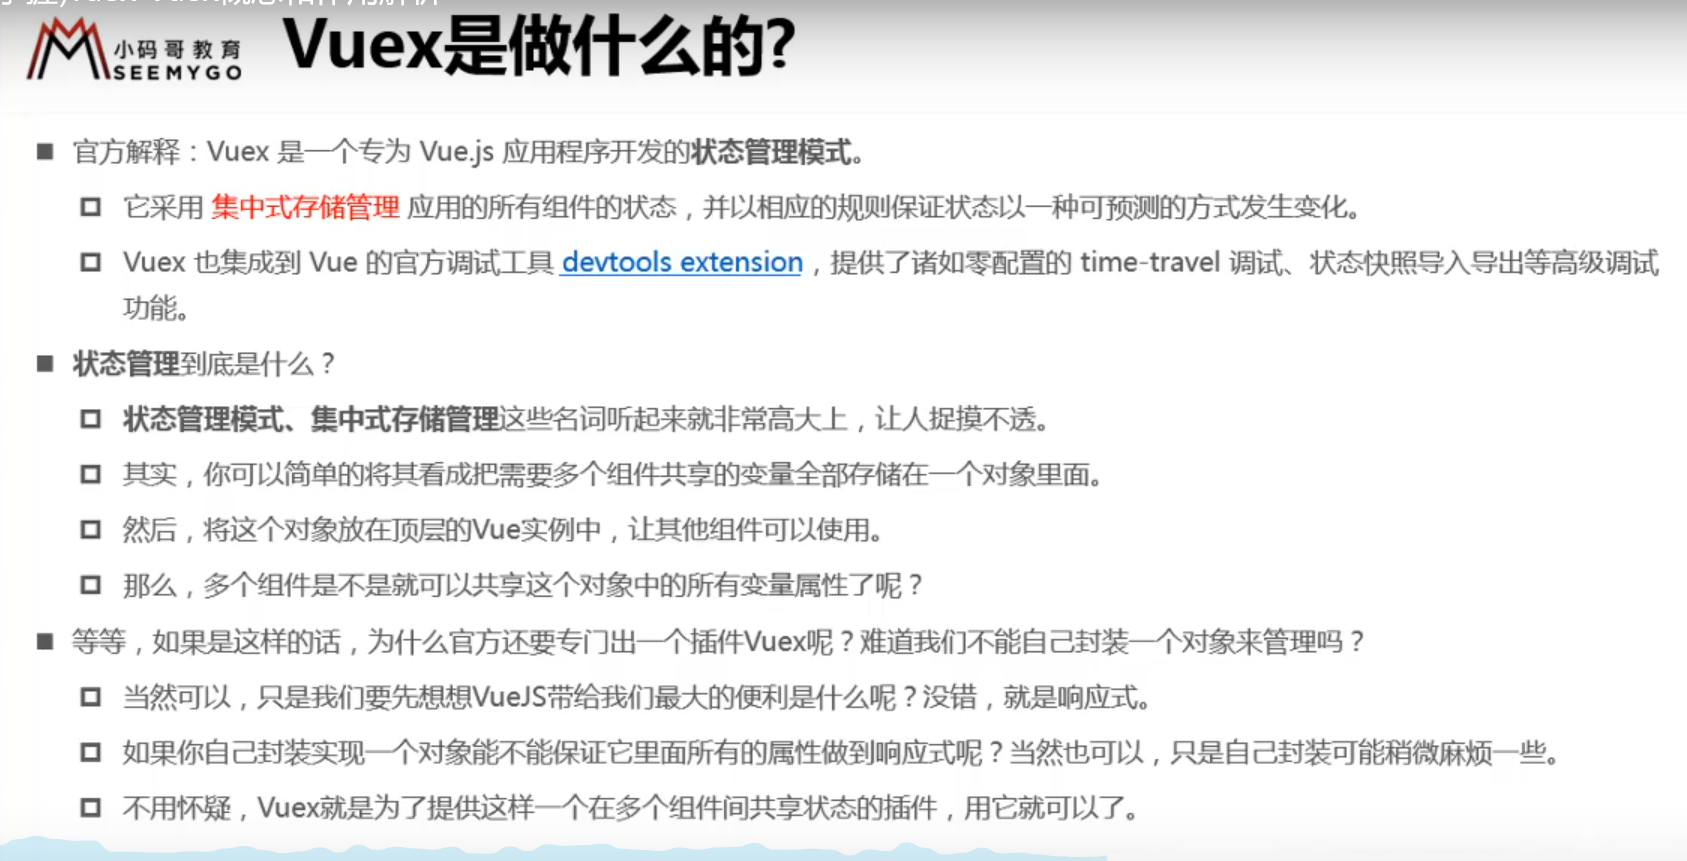
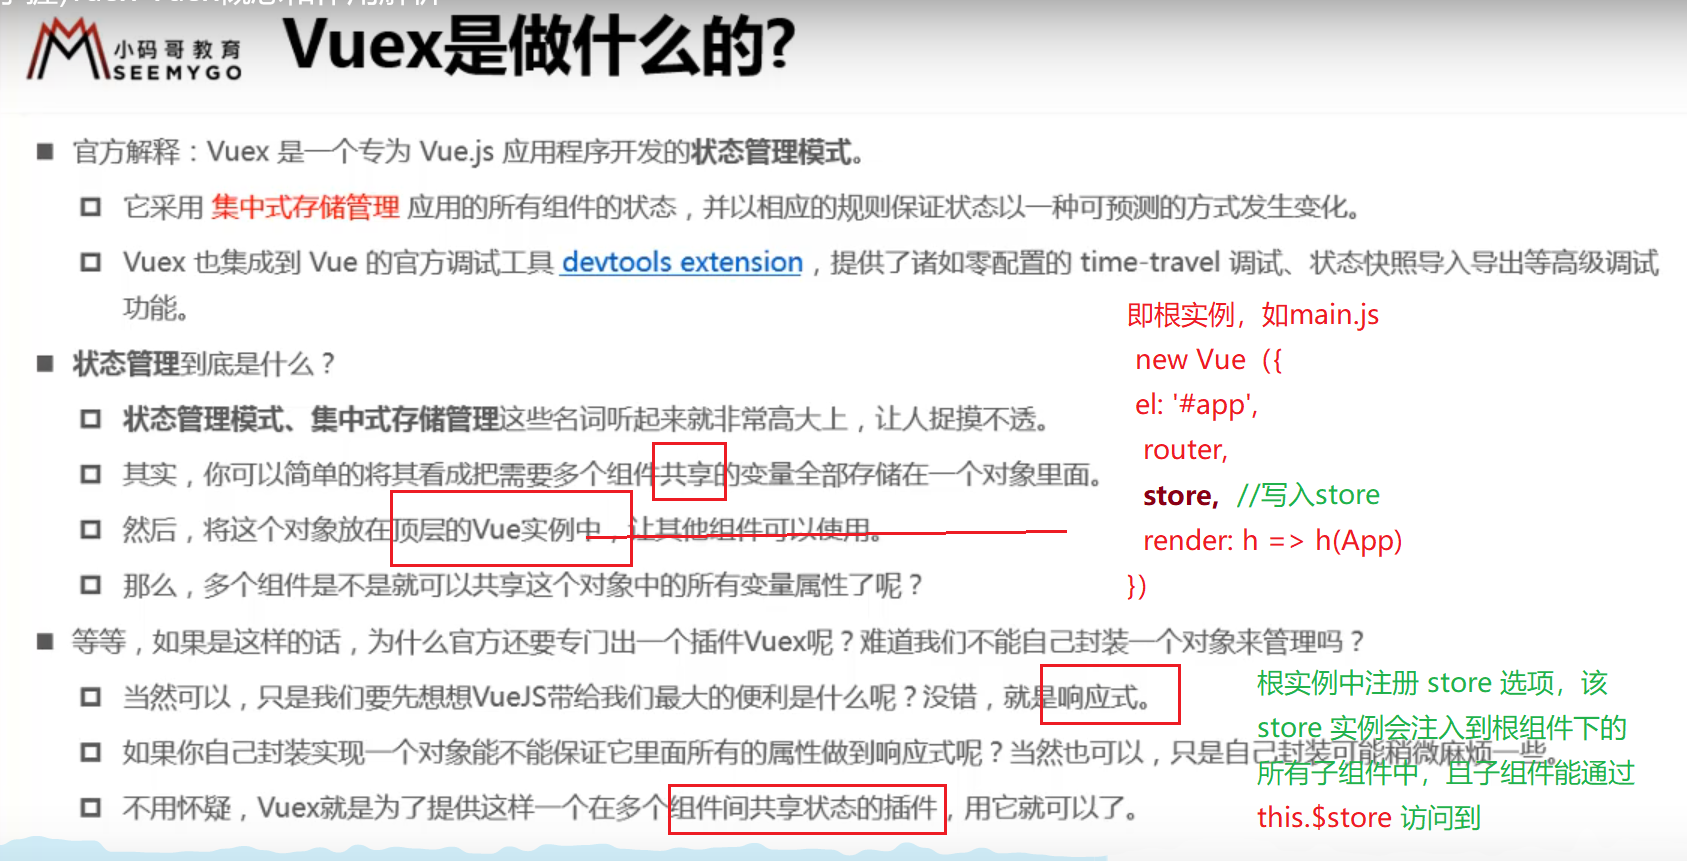
vuex

diff --git a/vueDemo/learnvuex/src/store/index.js b/vueDemo/learnvuex/src/store/index.js
@@ -9,6 +9,7 @@ import moduleA from './modules/moduleA';
 //1.安装插件
 Vue.use(Vuex)
 
+//写入状态 单一状态树
 const state = {
   counter: 10000,
   students: [
@@ -30,9 +31,10 @@ const store = new Vuex.Store({
   mutations,
   actions,
   getters,
-    modules: {
-      a:moduleA
-    }
+  modules: {
+    a:moduleA
+  }
   })
 
+//在根实例main.js中被调用
 export default store

diff --git a/vueDemo/learnvuex/src/App.vue b/vueDemo/learnvuex/src/App.vue
@@ -61,9 +61,11 @@ export default {
   // },
   methods: {
     addition() {
+      //通过mutation更新状态
       this.$store.commit(INCREMENT);
     },
     subtraction() {
+      //通过mutation更新状态
       this.$store.commit("decrement");
     },
     addCount(count) {

diff --git a/vueDemo/learnvuex/src/main.js b/vueDemo/learnvuex/src/main.js
@@ -9,6 +9,6 @@ Vue.config.productionTip = false
 new Vue({
   el: '#app',
   router,
-  store,
+  store, //根实例中注册 store 选项，该 store 实例会注入到根组件下的所有子组件中，且子组件能通过 this.$store 访问到
   render: h => h(App)
 })

diff --git a/vueDemo/learnvuex/src/store/actions.js b/vueDemo/learnvuex/src/store/actions.js
@@ -1,3 +1,7 @@
+//actions处理异步 ,看图例！
+//可以调用 context.commit 提交一个!! mutation !!，
+//或者通过 context.state 和 context.getters 来获取 state 和 getters
+
 export default {
   //context:上下文
   // aUpdateInfola(context,payload) {

diff --git a/vueDemo/learnvuex/src/store/mutations-types.js b/vueDemo/learnvuex/src/store/mutations-types.js
@@ -1,1 +1,2 @@
+//使用常量替代 Mutation 事件类型
 export const INCREMENT = 'increment'

diff --git a/vueDemo/vuex.md b/vueDemo/vuex.md
@@ -1,0 +1,26 @@
+# Vuex
+## 一.是什么？
+>官方：Vuex 是一个专为 Vue.js 应用程序开发的`状态管理模式`。它采用`集中式存储`管理应用的`所有组件`的`状态`，并以相应的`规则`保证状态以一种`可预测`的方式发生变化。  
+
+>通俗理解：
+>1. 将需要多个组件`共享`的变量全部存储在一个对象里面
+>2. 将
+
+## vuex中actions中函数默认自带参数context，为什么还可以写成{commit}或者{dispatch}或者其他的
+[参考](https://blog.csdn.net/weixin_44898897/article/details/105435703)
+comtext:上下文
+context的话就相当于state的父亲，上一级，`包含着state中的所有属性`  
+
+context:{  
+        state,   等同于store.$state，若在模块中则为局部状态  
+        rootState,   等同于store.$state,只存在模块中  
+        commit,   等同于store.$commit  
+        dispatch,   等同于store.$dispatch  
+        getters   等同于store.$getters   
+}  
+
+常规写法调用的时候会使用context.commit，但更多的是使用es6的变量解构赋值，也就是直接在参数的  
+位置写自己想要的属性，如：{commit}。  
+
+
+**`dispatch：含有异步操作；而commit只是同步操作，都是提交 mutation`，因为`只能在mutation中才能够改变state中的值`，然而mutation中只能进行同步操作，从而actions就出现了，actions允许异步和同步操作，但是对于actions的操作其实就是提交mutation来完成**     

diff --git a/vueDemo/notes.md b/vueDemo/notes.md
@@ -235,10 +235,12 @@ vue-router安装配置，也可以直接脚手架安装
 ![vuex-是什么](images/notesImages/Vuex-管理什么状态.png)
 ![vuex-多界面状态管理](images/notesImages/Vuex-多界面状态管理.png)
 ![vuex-状态管理图](images/notesImages/Vuex-状态管理图例.png)  
+
 ### 几个核心概念  
 ![vuex-单一状态树](images/notesImages/Vuex-单一状态树.png)
 ![vuex-getters的基本使用](images/notesImages/Vuex-getters的基本使用.png)
 同时，getter还可以传参数  
+
 #### Mutations  
 ![Vuex-Mutation状态更新](images/notesImages/Vuex-Mutation状态更新.png)
 ![Vuex-Mutation传递参数](images/notesImages/Vuex-Mutation传递参数.png)
@@ -246,6 +248,12 @@ vue-router安装配置，也可以直接脚手架安装
 ![Vuex-Mutation响应规则](images/notesImages/Vuex-Mutation响应规则.png)
 ![Vuex-Mutation常量类型](images/notesImages/Vuex-Mutation常量类型.png)
 ![Vuex-Mutation同步函数](images/notesImages/Vuex-Mutation同步函数.png)
+
+#### Action
+Action 提交的是 mutation，而不是直接变更状态。
+Action 可以包含任意异步操作。
+看官网和文件[action.js](learnvuex/src/store/actions.js)
+
 #### Module  
 ![Vuex-Module](images/notesImages/Vuex-Module.png)
 

diff --git a/vueDemo/important.md b/vueDemo/important.md
@@ -84,3 +84,8 @@ v-loading="loading"
       )
 ```
 this.$store.dispatch这个方法可以调用vuex/modules/'dialogManager下的方法
+
+### 5.computed
+Props，methods,data和computed的初始化都是在beforeCreated和created之间完成的。https://segmentfault.com/q/1010000010364198
+
+初始化data在初始化computed之前 https://www.pianshen.com/article/73611605491/

diff --git a/vueDemo/vueDevtools.md b/vueDemo/vueDevtools.md
@@ -1,0 +1,4 @@
+# vueDevtools的使用
+## 普通使用
+## vuex调试
+>Vuex 也集成到 Vue 的官方调试工具 devtools extension (opens new window)，提供了诸如零配置的 time-travel 调试、状态快照导入导出等高级调试功能
